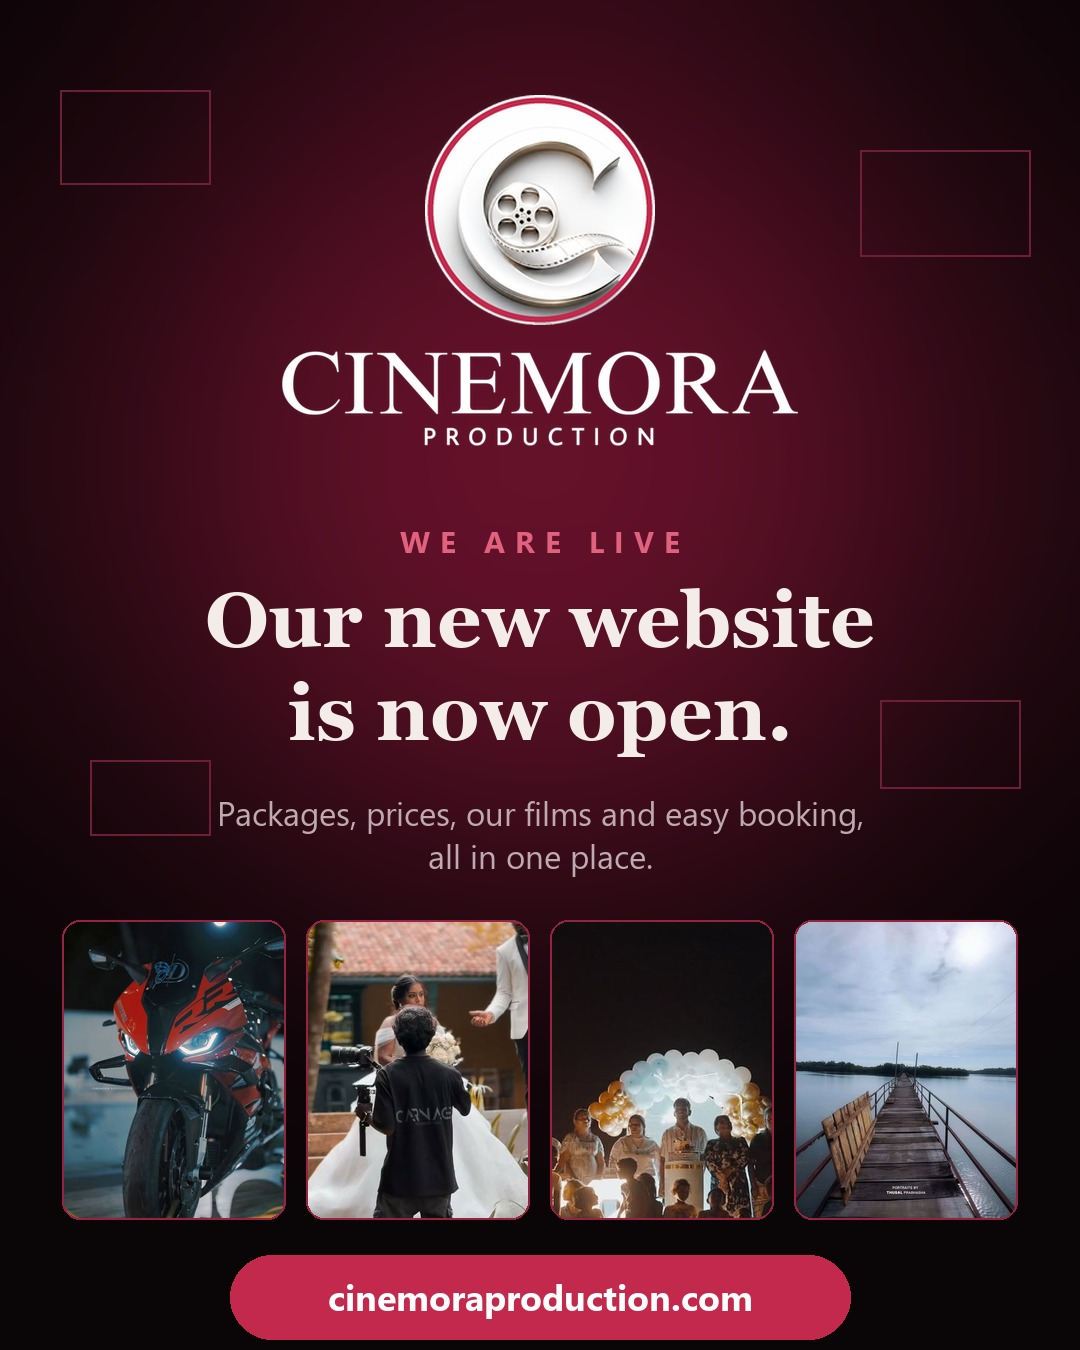
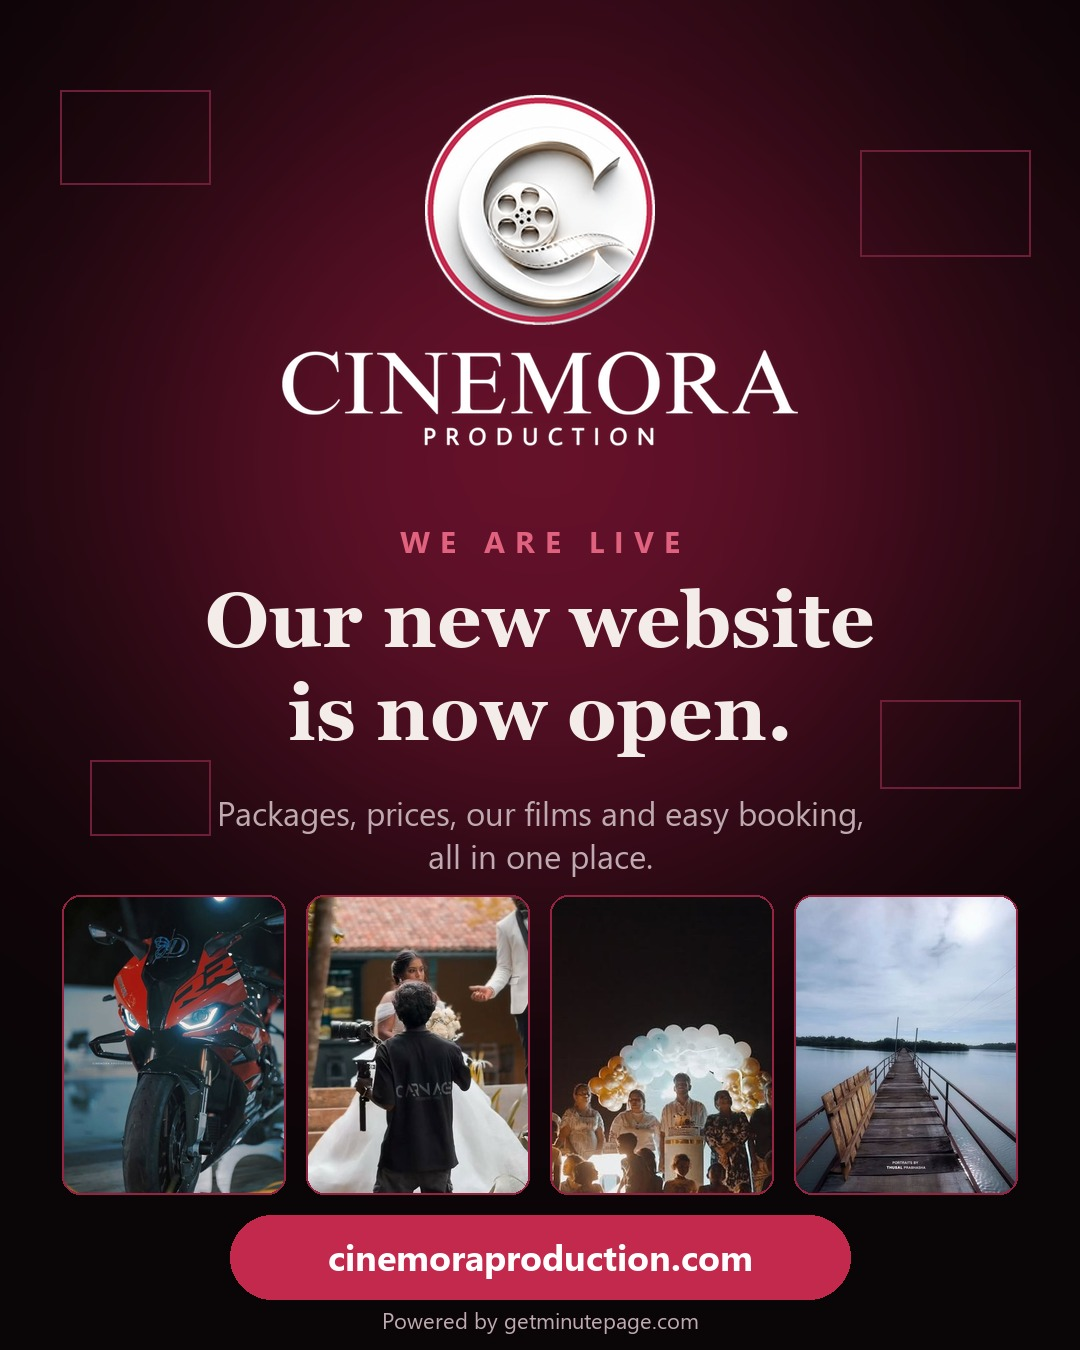
new

Changed region(s): [[0.0611, 0.6533, 0.9472, 0.9956]]

diff --git a/public/index.html b/public/index.html
@@ -1076,6 +1076,26 @@ footer li a,footer address a{color:var(--fg);opacity:.8;transition:opacity .2s}f
 .by a{color:var(--fg);border-bottom:1px solid var(--acc)}
 @media(max-width:900px){.fgrid{grid-template-columns:1fr 1fr}.fb{grid-column:1/-1}}
 @media(max-width:520px){.fgrid{grid-template-columns:1fr}footer{padding-top:44px}.fbot{flex-direction:column}}
+#mbtn{display:none}
+@media(max-width:900px){
+header{flex-wrap:nowrap;align-items:center;gap:12px;padding:9px 16px;padding-top:calc(9px + env(safe-area-inset-top,0px));background:rgba(10,5,7,.8);-webkit-backdrop-filter:blur(16px) saturate(1.2);backdrop-filter:blur(16px) saturate(1.2);border-bottom:1px solid rgba(194,41,77,.28);box-shadow:0 8px 30px rgba(0,0,0,.35)}
+.logo{gap:9px;min-width:0}.logo img.mark{height:38px;width:38px;box-shadow:0 0 0 1px rgba(224,98,127,.45),0 0 16px rgba(224,98,127,.3)}.logo img:not(.mark){height:30px;width:auto;max-width:100%}
+#mbtn{display:flex;flex-direction:column;align-items:center;justify-content:center;gap:5px;flex:none;width:44px;height:44px;border-radius:50%;border:1px solid var(--line);background:rgba(26,10,16,.8);cursor:pointer;transition:.25s}
+#mbtn span{display:block;width:18px;height:2px;border-radius:2px;background:var(--fg);transition:transform .3s,opacity .2s}
+#mbtn[aria-expanded="true"]{background:var(--acc);border-color:var(--acc)}
+#mbtn[aria-expanded="true"] span:nth-child(1){transform:translateY(7px) rotate(45deg)}
+#mbtn[aria-expanded="true"] span:nth-child(2){opacity:0}
+#mbtn[aria-expanded="true"] span:nth-child(3){transform:translateY(-7px) rotate(-45deg)}
+#mbtn:focus-visible{outline:2px solid var(--acc2);outline-offset:3px}
+nav#nav{position:absolute;top:100%;left:0;right:0;width:auto;flex-direction:column;flex-wrap:nowrap;gap:0;overflow:hidden;padding:6px 16px 14px;-webkit-mask:none;mask:none;background:rgba(10,5,7,.97);-webkit-backdrop-filter:blur(16px);backdrop-filter:blur(16px);border-bottom:1px solid var(--line);box-shadow:0 24px 40px rgba(0,0,0,.5);opacity:0;visibility:hidden;transform:translateY(-10px);transition:opacity .25s,transform .25s,visibility 0s .25s}
+nav#nav.open{opacity:1;visibility:visible;transform:none;transition:opacity .25s,transform .25s}
+nav#nav a{display:flex;align-items:center;justify-content:space-between;border:0;border-bottom:1px solid rgba(194,41,77,.2);border-radius:0;background:none;padding:17px 4px;font:400 1rem var(--b);letter-spacing:.06em}
+nav#nav a:last-child{border-bottom:0}
+nav#nav a:after{content:"›";color:var(--acc2);font-size:1.3rem}
+nav#nav a.on{background:none;color:var(--acc2);font-weight:500}
+nav#nav a:hover{border-color:rgba(194,41,77,.2)}
+section{padding-top:calc(96px + env(safe-area-inset-top,0px))}
+}
 #bar{display:none}
 @media(max-width:800px){
 #wa{display:none}
@@ -1100,6 +1120,7 @@ footer{padding-bottom:110px}
 <canvas id="bg" aria-hidden="true"></canvas><div id="glow" aria-hidden="true"></div>
 <header>
   <a class="logo" href="/" data-t="home" aria-label="Cinemora Production home"><img class="mark" src="/assets/logo-mark.png" alt="" width="192" height="192" decoding="async"><img src="/assets/logo.png" alt="Cinemora Production" width="640" height="119" fetchpriority="high" decoding="async"></a>
+  <button type="button" id="mbtn" aria-label="Open menu" aria-expanded="false" aria-controls="nav"><span></span><span></span><span></span></button>
   <nav id="nav" aria-label="Main">
     <a href="/" data-t="home" class="on" aria-current="page">Home</a>
     <a href="/prices" data-t="prices">Pricing &amp; Packages</a>
@@ -1294,7 +1315,7 @@ footer{padding-bottom:110px}
     <div><h4>Contact</h4><address><a href="tel:+94703770730">070 377 0730</a><br><a href="tel:+94743500507">074 350 0507</a><br><a href="mailto:cinemoraproductionlk@gmail.com">cinemoraproductionlk@gmail.com</a><br><a href="https://wa.me/message/E7ERP73DCK3QJ1" target="_blank" rel="noopener noreferrer">Chat on WhatsApp</a></address></div>
     <div><h4>Find us</h4><address>Near Ahungalla Police Station,<br>Pathegama, Balapitiya,<br>Sri Lanka 80550<br><a href="/location" data-go="location">Directions &amp; map</a></address></div>
   </div>
-  <div class="fbot"><span>© 2026 Cinemora Production. All rights reserved.</span><a href="/privacy" data-go="privacy">Privacy Policy</a><span class="by">Website by <a href="https://getminutepage.com" target="_blank" rel="noopener">Minutepage</a></span></div>
+  <div class="fbot"><span>© 2026 Cinemora Production. All rights reserved.</span><a href="/privacy" data-go="privacy">Privacy Policy</a><span class="by">Powered by <a href="https://getminutepage.com" target="_blank" rel="noopener">Minutepage</a></span></div>
 </footer>
 <div id="qm" role="dialog" aria-modal="true" aria-labelledby="qt" hidden><div class="qbox"><button type="button" class="qx" id="qx" aria-label="Close">&times;</button>
 <h3 id="qt">Request a Quotation</h3><p class="sub" style="margin:8px 0 18px;font-size:.85rem">Fill in your details. Your enquiry opens in WhatsApp or your email app, ready to send to Cinemora Production. We reply personally.</p>
@@ -1322,6 +1343,13 @@ footer{padding-bottom:110px}
   function routeOf(p){p=(p||'/').replace(/\/+$/,'')||'/';for(var k in PATHS)if(PATHS[k]===p)return k;return 'home'}
   function setMeta(sel,attr,val){var el=document.querySelector(sel);if(el&&val)el.setAttribute(attr,val)}
   var nav=document.getElementById('nav');
+  var mbtn=document.getElementById('mbtn');
+  function setMenu(o){nav.classList.toggle('open',o);mbtn.setAttribute('aria-expanded',o?'true':'false');mbtn.setAttribute('aria-label',o?'Close menu':'Open menu')}
+  mbtn.addEventListener('click',function(e){e.stopPropagation();setMenu(!nav.classList.contains('open'))});
+  nav.addEventListener('click',function(e){if(e.target.closest('a'))setMenu(false)});
+  document.addEventListener('click',function(e){if(nav.classList.contains('open')&&!e.target.closest('header'))setMenu(false)});
+  addEventListener('keydown',function(e){if(e.key==='Escape'&&nav.classList.contains('open')){setMenu(false);mbtn.focus()}});
+  addEventListener('resize',function(){if(innerWidth>900)setMenu(false)});
   function show(t,push){
     if(!PATHS.hasOwnProperty(t))t='home';
     document.querySelectorAll('main>section').forEach(function(s){s.classList.toggle('on',s.id===t)});

diff --git a/social/captions.md b/social/captions.md
@@ -40,6 +40,8 @@ Cinemora Production is now online 🎬
 See our packages, prices and films, and request a quotation:
 cinemoraproduction.com
 
+Powered by getminutepage.com (also on the image and in the website footer)
+
 ## Before you post
 
 - Make sure https://cinemoraproduction.com opens for you first.
